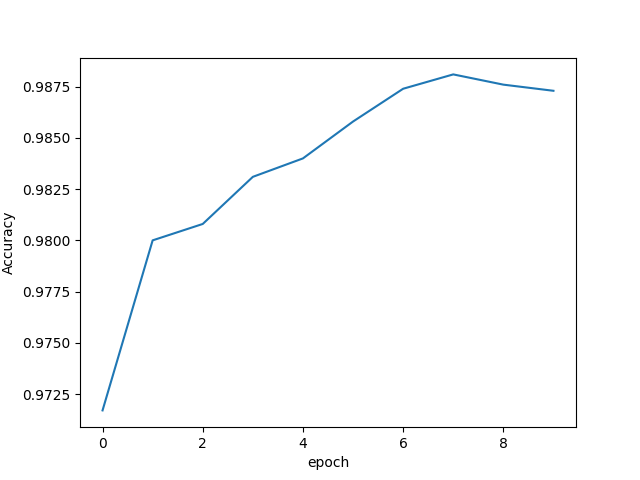
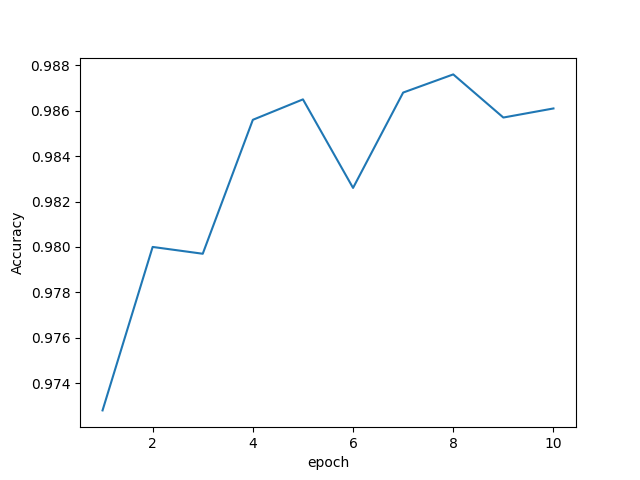
update

diff --git a/PyTorch_study_code/L9_Basic_CNN.py b/PyTorch_study_code/L9_Basic_CNN.py
@@ -124,7 +124,7 @@ if __name__ == '__main__':
         train(epoch)
         acc = test()
         acc_list.append(acc)
-        epoch_list.append(epoch)
+        epoch_list.append(epoch + 1)
 
     plt.plot(epoch_list, acc_list)
     plt.ylabel('Accuracy')
